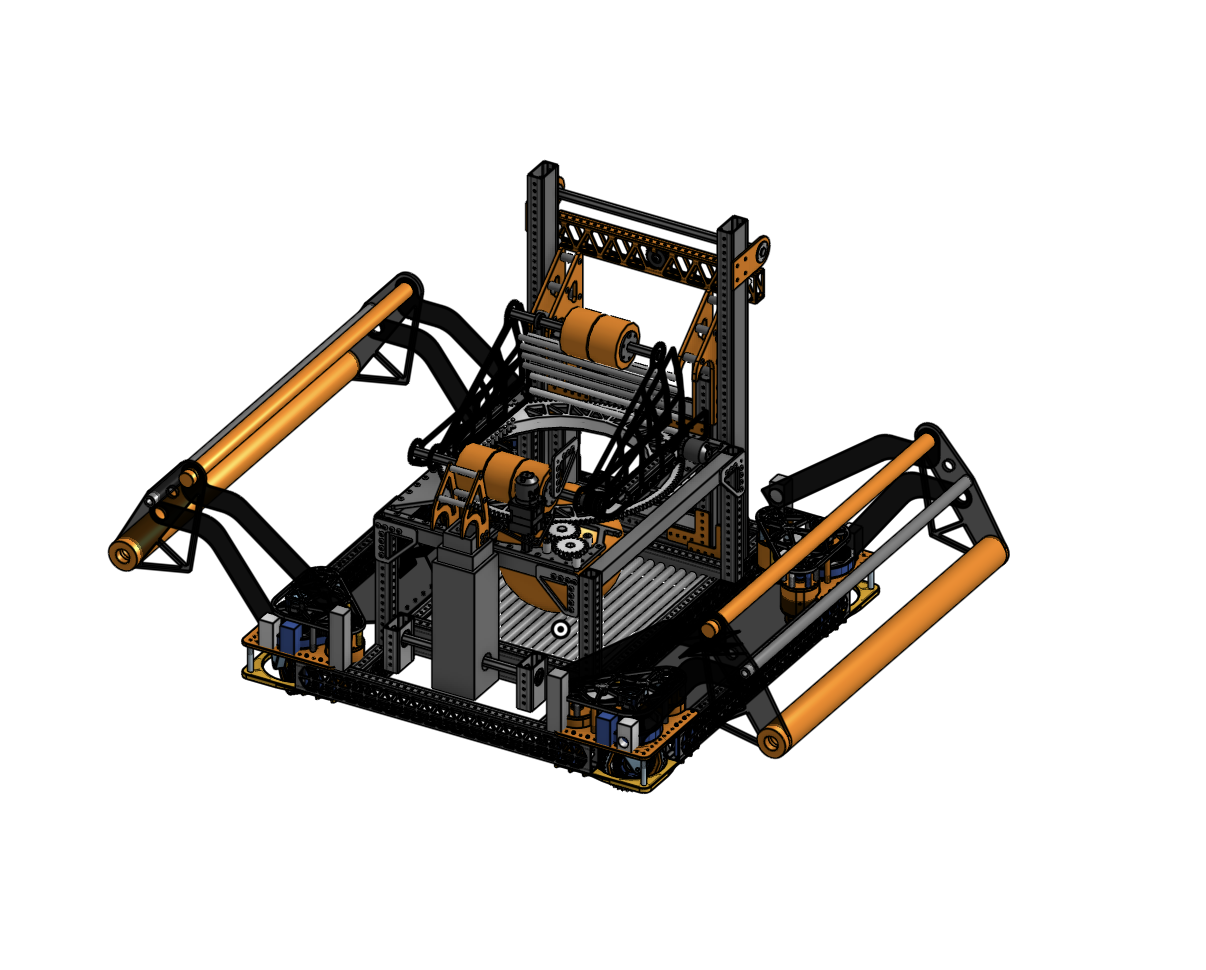
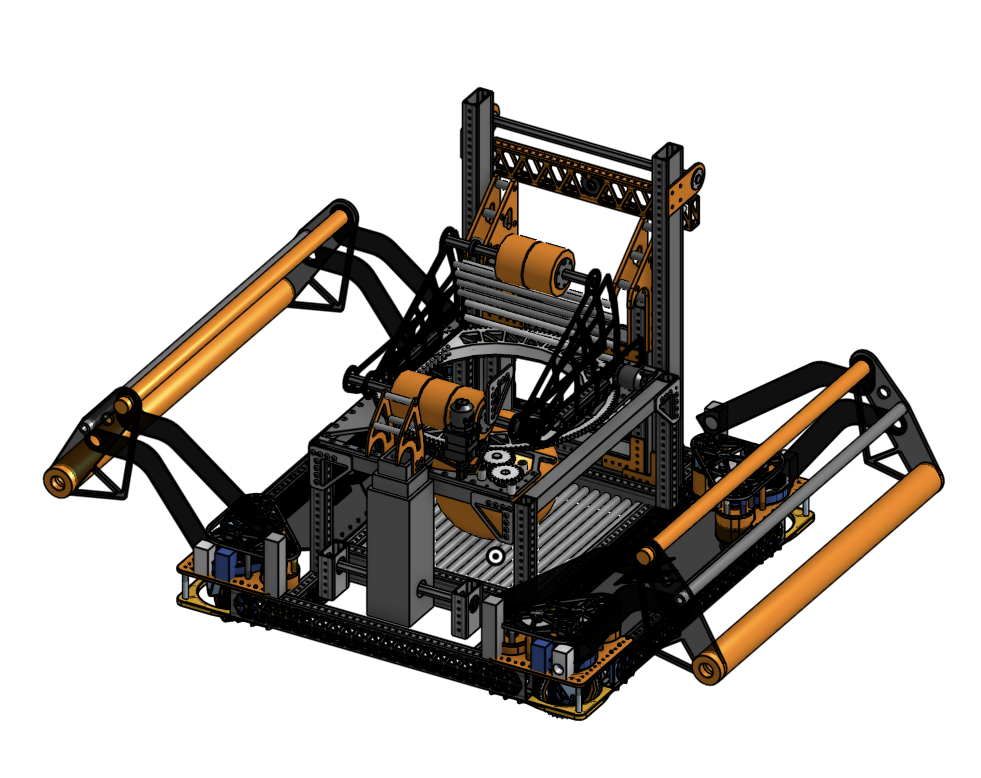
added FRC content

diff --git a/_projects/D-FIRST-Robot-2023.md b/_projects/D-FIRST-Robot-2023.md
@@ -3,20 +3,29 @@ layout: project
 title: FIRST Robot (2024)
 description: Building an FRC robot
 technologies: [CAD, OnShape, CNC, Off-season]
-image: /assets/images/FRC_robot.png
+image: /assets/images/Competition Robot CAD.png
 ---
 
-In 2023, I oversaw the design of my high school's FIRST robotics team 3655 Gone Fishin'...
+In 2023, I oversaw the design of my high school's FIRST robotics team 3655 Gone Fishin'.
+
+I worked closely with the mentors to design a robot that is feasible to build in our team's capabilities in CAD and faciliated with the manufacturing and assembly of the robot. 
 
 
+<img src="{{ '/assets/images/Robot at Competition.JPG' | relative_url }}"
+     style="display: block; width: 80%; margin: 0rem auto;">
 
+The robot is composed of a ground intake, where the swerve drive can drive over the game piece (the "notes") and pick them up from the ground. The intake feeds the game piece into the shooter, and the motors attached on the shooter launches the game piece when the robot is ready to shoot. I also included space to mount the climbers onto the robot for the endgame, where the robot needs to cling onto a piece horizontal chain and hang in the air to score points. 
+
+Features:
+- The low center of gravity on this robot made it much easier for our driver to develope more aggressive playing style. 
+- Most metal plates on the robot were CNC machined, 
 
 
 <h5>Offseason Swerve Drive Manufacture:</h5>
 
 3D printing of Nylon Carbon Fiber gears: (did not turn out too great, a lot of wear as actual gears)
 <img src="{{ '/assets/images/3dprinted_gears.JPG' | relative_url }}"
-     style="display: block; width: 100%; margin: 0rem auto;">
+     style="display: block; width: 80%; margin: 0rem auto;">
 
 CNC machining the mounting plates for the swerve drive
 <div class = "two-images"> 
@@ -26,12 +35,12 @@ CNC machining the mounting plates for the swerve drive
      style="display: block; width: 100%; margin: 0rem auto;">
 </div>
 
-Why did we end up using COT swerve drives? 
+Why did the team end up using COTS (Commercial Off The Shelf) swerve drives? 
 - General lack of machining experience on the team
 - Gears would need to be bought anyways
 - Lack of experience slows down building cycle, want to have reliable system working early
 
-Why switch to swerve drive? 
+Why was I working on the switch to swerve drive? 
 - Much faster in speed
 - Much more mobile --- can translate in any direction, and can rotate while translating
 - Opens up for more strategies like defense during matches
@@ -43,12 +52,22 @@ Why switch to swerve drive?
      style="display: block; width: 100%; margin: 0rem auto;">
 </div>
 <figcaption>Tank drive (left image) and my offseason swerve drive partial assembly (right)</figcaption>
+ 
 
 
-Worked on machining (the team's first year ever to have a CNC machine) in 2021 - 2022. I worked with an alumni to set up the CNC machine and the CAM extension in SolidWorks. 
+<h5>Off-season CAD practice</h5>
+I designed a robot based on the 2022 prompt in CAD in 40 hours to learn about how to most efficiently design, what details to include, what not to, and I learned about the design choices made by the experienced FRC teams in hopes that I could prepare for the next design season. 
+
+<img src="{{ '/assets/images/2022 Prompt CAD Practice.png' | relative_url }}"
+     style="display: block; width: 80%; margin: 0rem auto;">
+
+
+In the 2021-2022 season, I worked on machining (the team's first year ever to have a CNC machine). setting up the CNC machine and the CAM extension in SolidWorks with an alumni. 
+
 <img src="{{ '/assets/images/machining.jpg' | relative_url }}"
      style="display: block; width: 60%; margin: 0rem auto;">
 
 Robot with CNC-ed mounting plates I designed and machined at an alumni event:
+
 <img src="{{ '/assets/images/robot_2022.jpg' | relative_url }}"
      style="display: block; width: 60%; margin: 0rem auto;">
